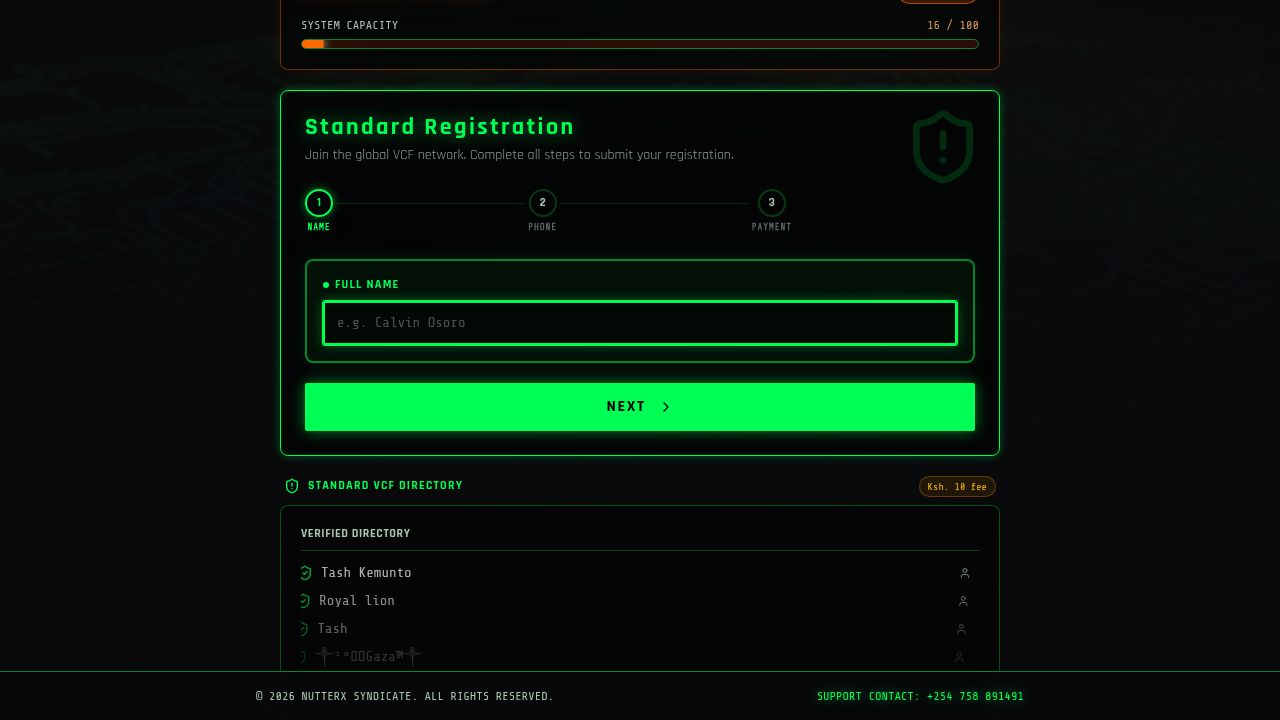
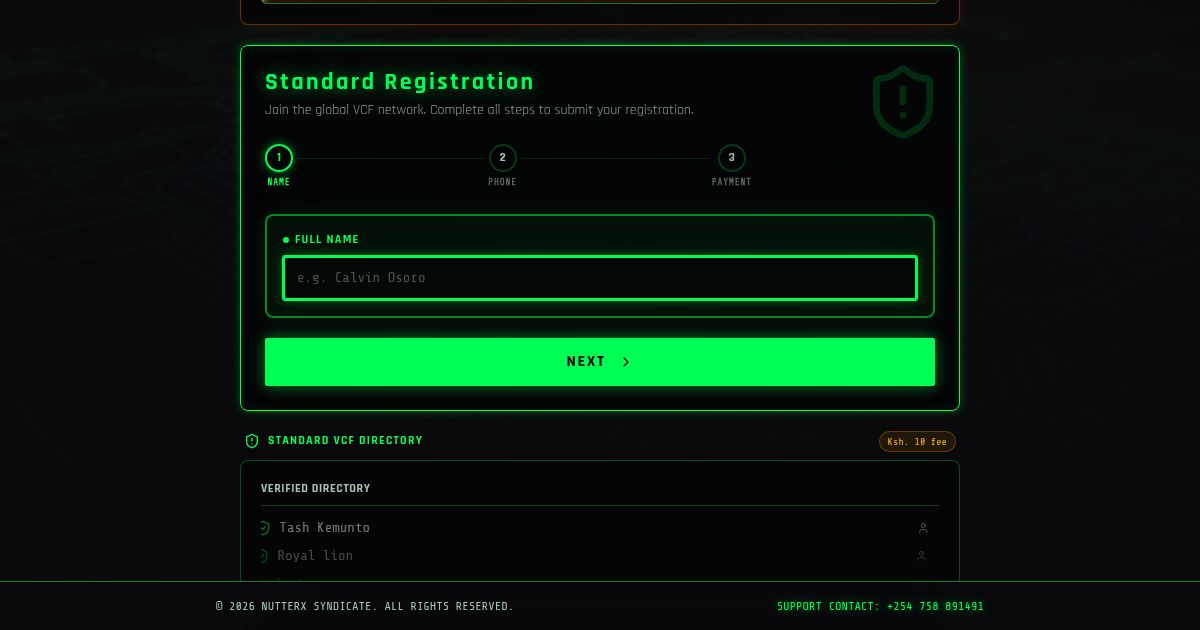
Update website preview to show actual homepage screenshot
Replace custom graphic with a real page screenshot for improved social media link previews and update meta tags accordingly.

Replit-Commit-Author: Agent
Replit-Commit-Session-Id: 9eb21d38-1b09-4b67-a3d9-a55f7c1e8fd3
Replit-Commit-Checkpoint-Type: full_checkpoint
Replit-Commit-Event-Id: 420fb2e9-7b55-44d8-a221-c89a08ec0978
Replit-Commit-Screenshot-Url: https://storage.googleapis.com/screenshot-production-us-central1/b4fb6476-7944-4762-ab95-a7411e5e9a44/9eb21d38-1b09-4b67-a3d9-a55f7c1e8fd3/pOkEZAY
Replit-Helium-Checkpoint-Created: true

Changed region(s): [[0.185, 0.0, 0.8017, 0.8444], [0.0, 0.8746, 1.0, 0.9952]]

diff --git a/artifacts/vcf-app/index.html b/artifacts/vcf-app/index.html
@@ -6,31 +6,30 @@
 
     <!-- Primary meta -->
     <title>Nutterx VCF Verification System</title>
-    <meta name="description" content="Join the Nutterx VCF Network — get your verified contact card added to a global VCF directory shared across thousands of devices. Standard (M-Pesa) and WhatsApp Bot tracks available." />
+    <meta name="description" content="Get your number added to the Nutterx VCF — a verified contact directory shared across thousands of devices. Standard (M-Pesa, Ksh 10) and free WhatsApp Bot tracks." />
     <meta name="keywords" content="VCF, contact file, verification, Nutterx, WhatsApp, M-Pesa, Kenya" />
     <meta name="author" content="Nutterx Syndicate" />
     <meta name="theme-color" content="#00ff41" />
 
-    <!-- Open Graph (Facebook, WhatsApp, LinkedIn, Telegram, etc.) -->
+    <!-- Open Graph (WhatsApp, Facebook, Telegram, LinkedIn) -->
     <meta property="og:type" content="website" />
     <meta property="og:title" content="Nutterx VCF Verification System" />
-    <meta property="og:description" content="Get verified and join the global Nutterx VCF network. Your contact is added to a shared VCF file distributed across thousands of devices. Standard track (M-Pesa) and free WhatsApp Bot track." />
-    <meta property="og:image" content="/opengraph.png" />
-    <meta property="og:image:secure_url" content="/opengraph.png" />
-    <meta property="og:image:type" content="image/png" />
+    <meta property="og:description" content="Get your number into the Nutterx VCF — a verified contact file shared across thousands of devices. Register via M-Pesa (Ksh 10) or the free WhatsApp Bot track." />
+    <meta property="og:image" content="/opengraph.jpg" />
+    <meta property="og:image:secure_url" content="/opengraph.jpg" />
+    <meta property="og:image:type" content="image/jpeg" />
     <meta property="og:image:width" content="1200" />
     <meta property="og:image:height" content="630" />
-    <meta property="og:image:alt" content="Nutterx VCF Verification System — Join the global contact network" />
+    <meta property="og:image:alt" content="Nutterx VCF Verification System — Standard Registration portal" />
     <meta property="og:locale" content="en_KE" />
     <meta property="og:site_name" content="Nutterx VCF System" />
 
     <!-- Twitter / X Card -->
     <meta name="twitter:card" content="summary_large_image" />
-    <meta name="twitter:site" content="@NutterxVCF" />
     <meta name="twitter:title" content="Nutterx VCF Verification System" />
-    <meta name="twitter:description" content="Get verified and join the global Nutterx VCF network. Your contact is added to a shared VCF file distributed across thousands of devices." />
-    <meta name="twitter:image" content="/opengraph.png" />
-    <meta name="twitter:image:alt" content="Nutterx VCF Verification System — Cyberpunk neon green shield on dark background" />
+    <meta name="twitter:description" content="Get your number into the Nutterx VCF — verified contact directory on thousands of devices. M-Pesa (Ksh 10) or free WhatsApp Bot." />
+    <meta name="twitter:image" content="/opengraph.jpg" />
+    <meta name="twitter:image:alt" content="Nutterx VCF Verification System registration portal" />
 
     <link rel="icon" type="image/svg+xml" href="/favicon.svg" />
     <link rel="preconnect" href="https://fonts.googleapis.com">
